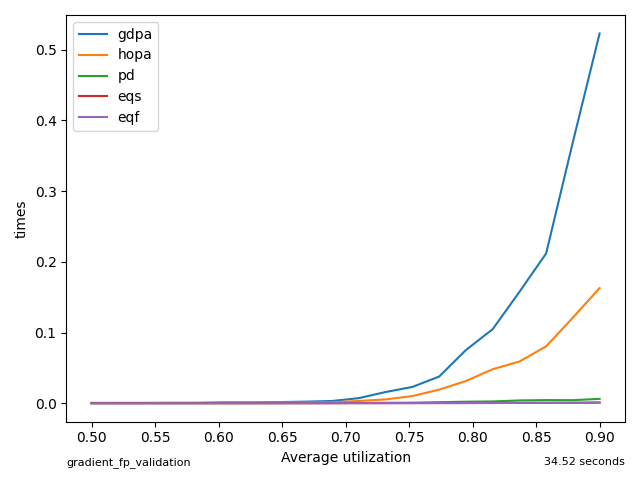
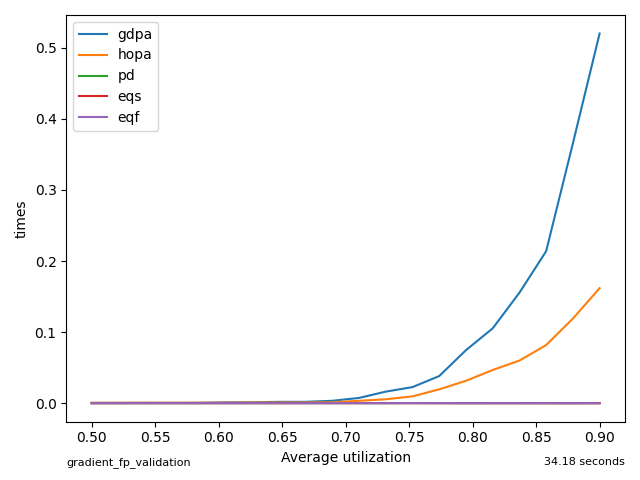
add mapping and edf validations

diff --git a/workspace/gradient_fp_mapping_validation/gradient_fp_mapping_val.py b/workspace/gradient_fp_mapping_validation/gradient_fp_mapping_val.py
@@ -8,8 +8,9 @@ from assignment.assignments import PDAssignment, EQSAssignment, EQFAssignment
 from assignment.hopa_assignment import HOPAssignment
 from examples.evaluation import SchedRatioEval
 from examples.example_models import get_system
+from examples.generator import unbalance
 from gradient_descent.gradient_optimizer import GradientDescentOptimizer
-from gradient_descent.parameter_handlers import PriorityExtractor
+from gradient_descent.parameter_handlers import PriorityExtractor, MappingPriorityExtractor
 from gradient_descent.cost_functions import InvslackCost
 from gradient_descent.stop_functions import ThresholdStopFunction
 from gradient_descent.update_functions import NoisyAdam
@@ -25,6 +26,28 @@ def gdpa_pd_fp_vector(system: LinearSystem) -> bool:
     gradient_function = VectorFPGradientFunction(PrioritiesMatrix())
 
     update_function = NoisyAdam()
+    optimizer = GradientDescentOptimizer(parameter_handler=parameter_handler,
+                                        cost_function=cost_function,
+                                        stop_function=stop_function,
+                                        gradient_function=gradient_function,
+                                        update_function=update_function,
+                                        verbose=False)
+
+    pd = PDAssignment(normalize=True)
+    pd.apply(system)
+    optimizer.apply(system)
+    HolisticFPAnalysis(limit_factor=1, reset=True).apply(system)
+    return system.is_schedulable()
+
+
+def gdpa_pd_fp_mapping_vector(system: LinearSystem) -> bool:
+    analysis = HolisticFPAnalysis(limit_factor=10, reset=False)
+    parameter_handler = MappingPriorityExtractor()
+    cost_function = InvslackCost(param_handler=parameter_handler, analysis=analysis)
+    stop_function = ThresholdStopFunction(limit=100)
+    gradient_function = VectorFPGradientFunction(PrioritiesMatrix(), sigma=1.5)
+
+    update_function = NoisyAdam(lr=1.5, beta1=0.9, beta2=0.999, epsilon=0.1, gamma=0.5)
     optimizer = GradientDescentOptimizer(parameter_handler=parameter_handler,
                                         cost_function=cost_function,
                                         stop_function=stop_function,
@@ -76,7 +99,7 @@ if __name__ == '__main__':
     rnd = Random(42)
     size = (3, 4, 3)  # flows, tasks, procs
     n = 50
-    systems = [get_system(size, rnd, balanced=True, name=str(i),
+    systems = [get_system(size, rnd, balanced=False, name=str(i),
                           deadline_factor_min=0.5,
                           deadline_factor_max=1) for i in range(n)]
 
@@ -84,14 +107,14 @@ if __name__ == '__main__':
     utilizations = np.linspace(0.5, 0.9, 20)
 
     tools = [
+        ("gdpa-mapping", gdpa_pd_fp_mapping_vector),
         ("gdpa", gdpa_pd_fp_vector),
         ("hopa", hopa_fp),
-        ("pd", pd_fp),
-        ("eqs", eqs_fp),
-        ("eqf", eqf_fp)
+        ("pd", pd_fp)
     ]
 
     labels, funcs = zip(*tools)
-    runner = SchedRatioEval("gradient_fp_validation", labels=labels, funcs=funcs,
+    runner = SchedRatioEval("gradient_fp_mapping_validation", labels=labels, funcs=funcs,
+                            preprocessor=unbalance,
                             systems=systems, utilizations=utilizations, threads=8)
     runner.run()

diff --git a/workspace/gradient_edf_local_validation/gradient_edf_local_val.py b/workspace/gradient_edf_local_validation/gradient_edf_local_val.py
@@ -1,0 +1,69 @@
+from random import Random
+
+import numpy as np
+
+from analysis.holistic_local_edf_analysis import HolisticLocalEDFAnalysis
+from assignment.assignments import PDAssignment, EQFAssignment
+from examples.evaluation import SchedRatioEval
+from examples.example_models import get_system
+from gradient_descent.cost_functions import InvslackCost
+from gradient_descent.gradient_function import AvgSeparationDelta, SequentialGradientFunction
+from gradient_descent.gradient_optimizer import GradientDescentOptimizer
+from gradient_descent.parameter_handlers import DeadlineExtractor
+from gradient_descent.stop_functions import ThresholdStopFunction
+from gradient_descent.update_functions import NoisyAdam
+from model.linear_system import LinearSystem, SchedulerType
+
+
+def item(system, assignment, test):
+    assignment.apply(system)
+    test.apply(system)
+    return system.is_schedulable()
+
+
+def edf_local_pd(system: LinearSystem) -> bool:
+    return item(system, PDAssignment(), HolisticLocalEDFAnalysis(limit_factor=10, reset=False))
+
+
+def edf_local_eqf(system: LinearSystem) -> bool:
+    return item(system,  EQFAssignment(), HolisticLocalEDFAnalysis(limit_factor=10, reset=False))
+
+
+def edf_local_gdpa(system: LinearSystem) -> bool:
+    analysis = HolisticLocalEDFAnalysis(limit_factor=10, reset=False)
+    parameter_handler = DeadlineExtractor()
+    cost_function = InvslackCost(parameter_handler=parameter_handler, analysis=analysis)
+    stop_function = ThresholdStopFunction(limit=100)
+    gradient_function = SequentialGradientFunction(cost_function=cost_function, sigma=1.5)
+    update_function = NoisyAdam()
+    optimizer = GradientDescentOptimizer(parameter_handler=parameter_handler,
+                                        cost_function=cost_function,
+                                        stop_function=stop_function,
+                                        gradient_function=gradient_function,
+                                        update_function=update_function,
+                                        verbose=False)
+
+    PDAssignment().apply(system)
+    return item(system, optimizer, HolisticLocalEDFAnalysis(limit_factor=1, reset=True))
+
+
+if __name__ == '__main__':
+    # create population of examples
+    rnd = Random(42)
+    size = (3, 4, 3)  # flows, tasks, procs
+    n = 50
+    systems = [get_system(size, rnd, balanced=True, name=str(i),
+                          deadline_factor_min=0.5, sched=SchedulerType.EDF,
+                          deadline_factor_max=1) for i in range(n)]
+
+    # utilizations between 50 % and 90 %
+    utilizations = np.linspace(0.5, 0.9, 20)
+
+    tools = [("EDF-L PD", edf_local_pd),
+             ("EDF-L EQF", edf_local_eqf),
+             ("EDF-L GDPA", edf_local_gdpa)]
+
+    labels, funcs = zip(*tools)
+    runner = SchedRatioEval("gradient_edf_local_validation", labels=labels, funcs=funcs,
+                            systems=systems, utilizations=utilizations, threads=6)
+    runner.run()

diff --git a/gradient_descent/gradient_function.py b/gradient_descent/gradient_function.py
@@ -4,8 +4,8 @@ from model.system_model import SystemModel
 
 
 class SequentialGradientFunction(GradientFunction):
-    def __init__(self, cost_function: CostFunction, lambda_factor=1.5):
-        self.delta_function = AvgSeparationDelta(factor=lambda_factor)
+    def __init__(self, cost_function: CostFunction, sigma=1.5):
+        self.delta_function = AvgSeparationDelta(sigma=sigma)
         self.cost_function = cost_function
 
     def reset(self):
@@ -21,12 +21,12 @@ class SequentialGradientFunction(GradientFunction):
 
 
 class AvgSeparationDelta(Function):
-    def __init__(self, factor=1.5):
-        self.factor = factor
+    def __init__(self, sigma=1.5):
+        self.sigma = sigma
 
     def apply(self, S: SystemModel, x: [float]) -> [float]:
         seps = [abs(x[i + 1] - x[i]) for i in range(len(x) - 1)]
-        return [self.factor * sum(seps) / len(seps)]*len(x)
+        return [self.sigma * sum(seps) / len(seps)]*len(x)
 
 
 def gradient_inputs_from_deltas(x, deltas) -> [[float]]:
@@ -39,6 +39,7 @@ def gradient_inputs_from_deltas(x, deltas) -> [[float]]:
         vector[i] -= deltas[i]
         ret.append(vector)
     return ret
+
 
 def gradient_from_costs(costs, deltas) -> [float]:
     gradient = [0] * int(len(costs) / 2)

diff --git a/gradient_descent/cost_functions.py b/gradient_descent/cost_functions.py
@@ -5,16 +5,16 @@ from model.analysis_function import AnalysisFunction
 
 
 class InvslackCost(CostFunction):
-    def __init__(self, param_handler: ParameterHandler, analysis: AnalysisFunction):
-        self.param_handler = param_handler
+    def __init__(self, parameter_handler: ParameterHandler, analysis: AnalysisFunction):
+        self.parameter_handler = parameter_handler
         self.analysis = analysis
 
     def reset(self):
-        self.param_handler.reset()
+        self.parameter_handler.reset()
 
     def compute(self, S: LinearSystem, x: [float]) -> float:
         a = backup_assignment(S)
-        self.param_handler.insert(S, x)
+        self.parameter_handler.insert(S, x)
         self.analysis.apply(S)
         cost = max([(flow.wcrt - flow.deadline) / flow.deadline for flow in S.flows])
         restore_assignment(S, a)

diff --git a/analysis/holistic_local_edf_analysis.py b/analysis/holistic_local_edf_analysis.py
@@ -1,10 +1,10 @@
 import math
 
-from model.analysis_function import reset_wcrt, init_wcrt, LimitFactorReachedException
+from model.analysis_function import reset_wcrt, init_wcrt, LimitFactorReachedException, AnalysisFunction
 from model.linear_system import Task, LinearSystem, SchedulerType, is_scheduler_type
 
 
-class HolisticLocalEDFAnalysis:
+class HolisticLocalEDFAnalysis(AnalysisFunction):
     """
     Based on paper "Optimized Deadline Assignment and schedulability Analysis for Distributed Real-Time Systems
     with Local EDF Scheduling

diff --git a/vector/vector_fp.py b/vector/vector_fp.py
@@ -57,8 +57,8 @@ class PriorityScenarios:
 
 
 class VectorFPGradientFunction(GradientFunction):
-    def __init__(self, vector_matrix: PriorityScenarios, lambda_factor=1.5):
-        self.delta_function = AvgSeparationDelta(factor=lambda_factor)
+    def __init__(self, vector_matrix: PriorityScenarios, sigma=1.5):
+        self.delta_function = AvgSeparationDelta(sigma=sigma)
         self.vector_matrix = vector_matrix
         self.cache = ResultsCache()
 

diff --git a/workspace/gradient_fp_mapping_validation/README.md b/workspace/gradient_fp_mapping_validation/README.md
@@ -1,0 +1,4 @@
+Area to test the gradient optization for FP systems with task to processor mapping.
+
+Main objective is to replicate the resuts from GDPA to validate this new refactoring of the code, 
+and then refine the new parameter handlers
